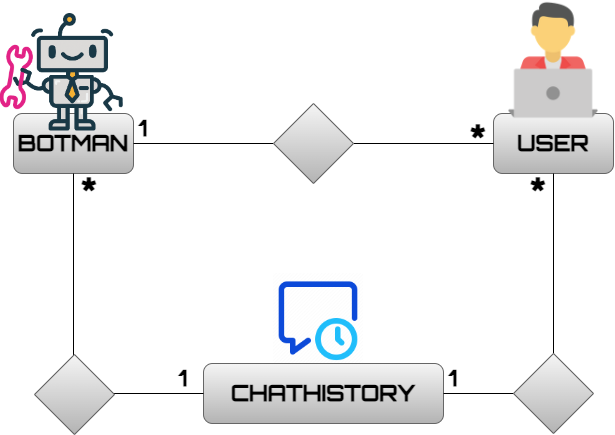
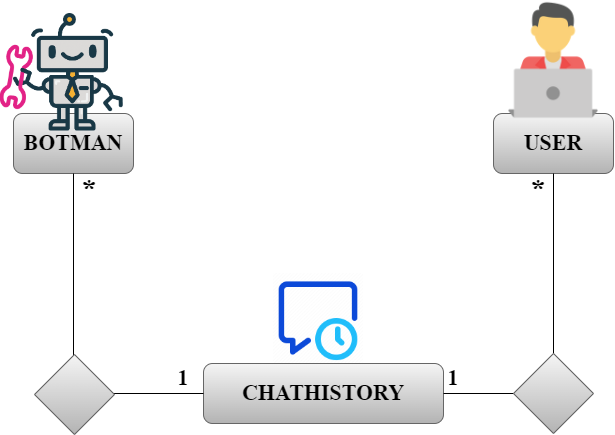
Ispravljen PMOV i ostale stvari, uradjeni seederi i factoryiji

diff --git a/chatbot/database/seeders/ChatHistorySeeder.php b/chatbot/database/seeders/ChatHistorySeeder.php
@@ -1,0 +1,55 @@
+<?php
+
+namespace Database\Seeders;
+
+use Illuminate\Database\Console\Seeds\WithoutModelEvents;
+use Illuminate\Database\Seeder;
+
+use App\Models\ChatHistory;
+use App\Models\BotMan;
+
+class ChatHistorySeeder extends Seeder
+{
+    /**
+     * Run the database seeds.
+     */
+    public function run(): void
+    {
+        for ($i = 0; $i < 3; $i++) {
+            ChatHistory::factory()->create([
+                'user_id' => rand(2, 4),
+                'botman_id' => 1,  
+            ]);
+        }
+
+        for ($i = 0; $i < 2; $i++) {
+            ChatHistory::factory()->create([
+                'user_id' => rand(2, 4),
+                'botman_id' => 2,  
+            ]);
+        }
+
+        for ($i = 0; $i < 1; $i++) {
+            ChatHistory::factory()->create([
+                'user_id' => rand(2, 4),
+                'botman_id' => 3,  
+            ]);
+        }
+
+
+        $botmanIds = [4,5,6];
+
+        foreach ($botmanIds as $botmanId) {
+            $numberOfCalls = BotMan::find($botmanId)->number_of_calls;
+
+            for ($i = 0; $i < $numberOfCalls; $i++) {
+                ChatHistory::factory()->create([
+                    'user_id' => rand(2, 4),
+                    'botman_id' => $botmanId,
+                ]);
+            }
+        }
+
+
+    }
+}

diff --git a/chatbot/database/migrations/2024_01_05_143520_add_is_admin_column_to_users_table.php b/chatbot/database/migrations/2024_01_05_143520_add_is_admin_column_to_users_table.php
@@ -11,8 +11,8 @@ return new class extends Migration
      */
     public function up(): void
     {
-        Schema::table('botmans', function (Blueprint $table) {
-            $table->foreignId('user_id')->nullable()->references('id')->on('users')->onDelete('set null');
+        Schema::table('users', function (Blueprint $table) {
+            $table->boolean('isAdmin')->default(false);
         });
     }
 
@@ -21,8 +21,8 @@ return new class extends Migration
      */
     public function down(): void
     {
-        Schema::table('botmans', function (Blueprint $table) {
-            $table->dropForeign('user_id');
+        Schema::table('users', function (Blueprint $table) {
+            $table->dropColumn('isAdmin');
         });
     }
 };

diff --git a/chatbot/database/seeders/BotManSeeder.php b/chatbot/database/seeders/BotManSeeder.php
@@ -1,0 +1,34 @@
+<?php
+
+namespace Database\Seeders;
+
+use Illuminate\Database\Console\Seeds\WithoutModelEvents;
+use Illuminate\Database\Seeder;
+
+use App\Models\BotMan;
+
+class BotManSeeder extends Seeder
+{
+    /**
+     * Run the database seeds.
+     */
+    public function run(): void
+    {
+        BotMan::create([
+            'botman_name'=>"Robo 1",
+            'number_of_calls'=> 3,
+        ]);
+
+        BotMan::create([
+            'botman_name'=>"Robo 2",
+            'number_of_calls'=> 2,
+        ]);
+
+        BotMan::create([
+            'botman_name'=>"Robo 3",
+            'number_of_calls'=> 1,
+        ]);
+
+        BotMan::factory()->times(3)->create();
+    }
+}

diff --git a/chatbot/database/seeders/UserSeeder.php b/chatbot/database/seeders/UserSeeder.php
@@ -1,0 +1,28 @@
+<?php
+
+namespace Database\Seeders;
+
+use Illuminate\Database\Console\Seeds\WithoutModelEvents;
+use Illuminate\Database\Seeder;
+
+use Illuminate\Support\Str;
+use App\Models\User;
+
+class UserSeeder extends Seeder
+{
+    /**
+     * Run the database seeds.
+     */
+    public function run(): void
+    {
+        User::create([
+            'name'=>"Administrator",
+            'email'=>"admin@gmail.com",
+            'password' =>  "admin",
+            'isAdmin' => true,
+            'remember_token' => Str::random(10),
+        ]);
+
+        User::factory()->times(3)->create();
+    }
+}

diff --git a/chatbot/database/migrations/2024_01_05_135539_add_the_number_of_calls_column_to_the_botmans_table.php b/chatbot/database/migrations/2024_01_05_135539_add_the_number_of_calls_column_to_the_botmans_table.php
@@ -11,7 +11,7 @@ return new class extends Migration
      */
     public function up(): void
     {
-        Schema::table('the_botmans', function (Blueprint $table) {
+        Schema::table('botmans', function (Blueprint $table) {
             $table->integer('number_of_calls')->default(0);
         });
     }
@@ -21,7 +21,7 @@ return new class extends Migration
      */
     public function down(): void
     {
-        Schema::table('the_botmans', function (Blueprint $table) {
+        Schema::table('botmans', function (Blueprint $table) {
             $table ->dropColumn('number_of_calls');
         });
     }

diff --git a/chatbot/database/factories/ChatHistoryFactory.php b/chatbot/database/factories/ChatHistoryFactory.php
@@ -22,9 +22,9 @@ class ChatHistoryFactory extends Factory
         return [
             'user_id' => User::factory(),
             'botman_id' => BotMan::factory(),
-            'timestamp' => $faker->dateTime(),
-            'message' => $faker->sentence,
-            'response' => $faker->sentence,
+            'timestamp' => $this->faker->dateTime(),
+            'message' => $this->faker->sentence,
+            'response' => $this->faker->sentence,
         ];
     }
 }

diff --git a/chatbot/database/seeders/DatabaseSeeder.php b/chatbot/database/seeders/DatabaseSeeder.php
@@ -12,11 +12,9 @@ class DatabaseSeeder extends Seeder
      */
     public function run(): void
     {
-        // \App\Models\User::factory(10)->create();
+        $this->call(UserSeeder::class);
+        $this->call(BotManSeeder::class);
+        $this->call(ChatHistorySeeder::class);
 
-        // \App\Models\User::factory()->create([
-        //     'name' => 'Test User',
-        //     'email' => 'test@example.com',
-        // ]);
     }
 }

diff --git a/chatbot/database/factories/BotManFactory.php b/chatbot/database/factories/BotManFactory.php
@@ -19,9 +19,8 @@ class BotManFactory extends Factory
     public function definition(): array
     {
         return [
-                'botman_name' => $faker->userName,
-                'number_of_calls' => $faker->numberBetween(0, 100),
-                'user_id'=>User::factory(), 
+                'botman_name' => $this->faker->userName,
+                'number_of_calls' => $this->faker->numberBetween(0, 5),
         ];
     }
 }

diff --git a/chatbot/app/Models/BotMan.php b/chatbot/app/Models/BotMan.php
@@ -9,13 +9,11 @@ class BotMan extends Model
 {
     use HasFactory;
 
+    protected $table = 'botmans';
+
     protected $fillable = ['botman_name', 'number_of_calls'];
 
 
-    public function users()
-    {
-        return $this->hasMany(User::class);
-    }
 
     public function chatHistories()
     {

diff --git a/chatbot/app/Models/ChatHistory.php b/chatbot/app/Models/ChatHistory.php
@@ -9,6 +9,8 @@ class ChatHistory extends Model
 {
     use HasFactory;
 
+    protected $table = 'chat_histories';
+
     protected $fillable = ['user_id', 'botman_id', 'timestamp', 'message', 'response'];
 
     public function user()

diff --git a/chatbot/app/Models/User.php b/chatbot/app/Models/User.php
@@ -43,10 +43,6 @@ class User extends Authenticatable
         'password' => 'hashed',
     ];
 
-    public function botMan()
-    {
-        return $this->belongsTo(BotMan::class);
-    }
 
     public function chatHistories()
     {
